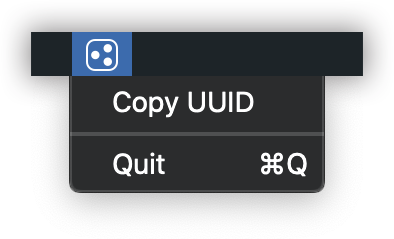
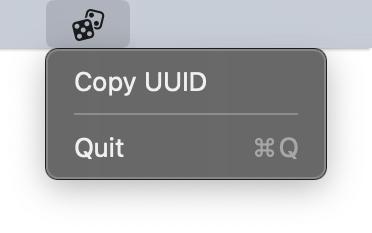
Bumped version. Changes to entitlements. New image assets.

diff --git a/jrUUID/Classes/Manager/UUIDServices.swift b/jrUUID/Classes/Manager/UUIDServices.swift
@@ -20,4 +20,8 @@ class UUIDServices {
         }
     }
     
+    @objc func generateReplaceUuid(_ userData: Any?, _ error: Any?) {
+        generateUuid(userData, error)
+    }
+    
 }
